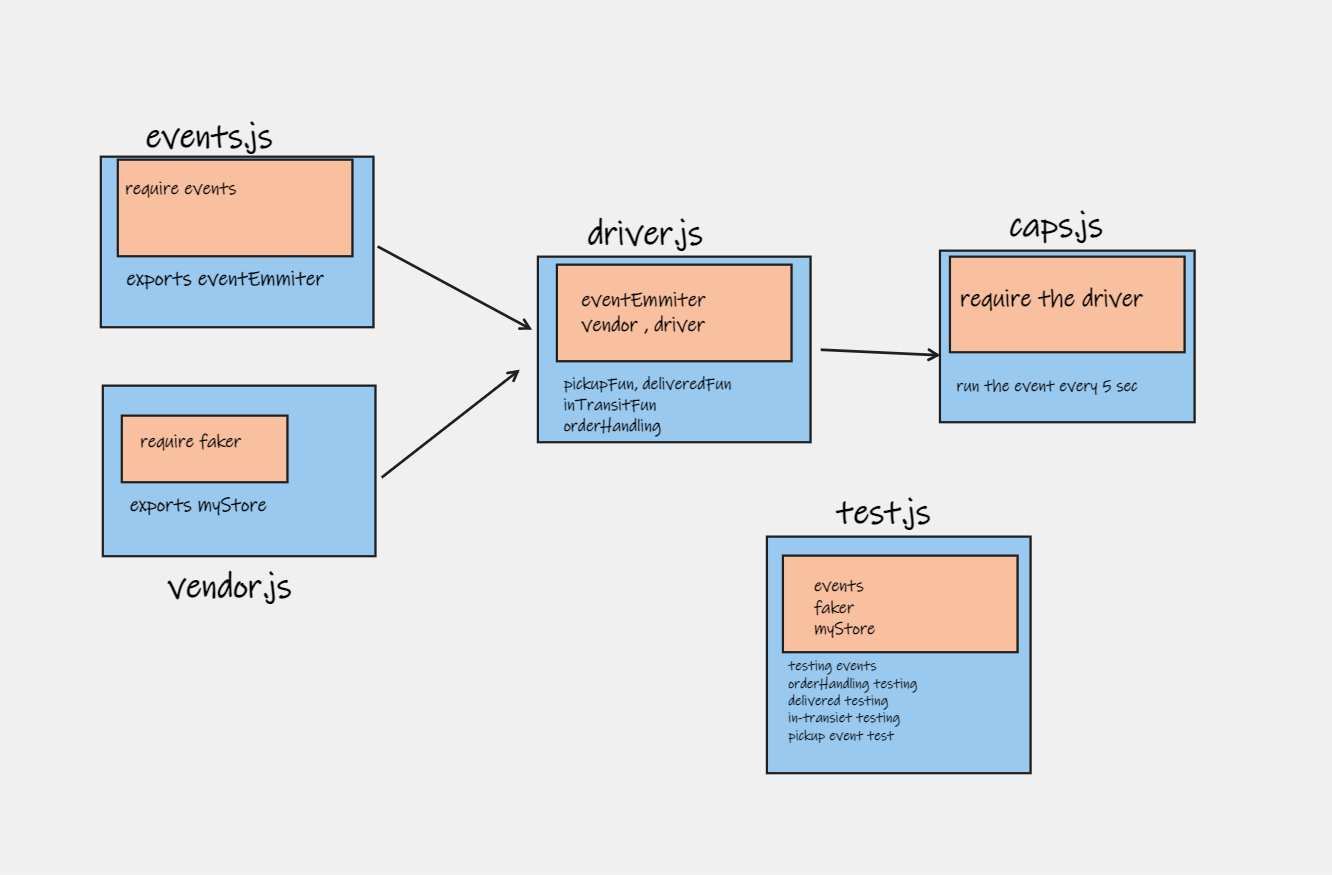
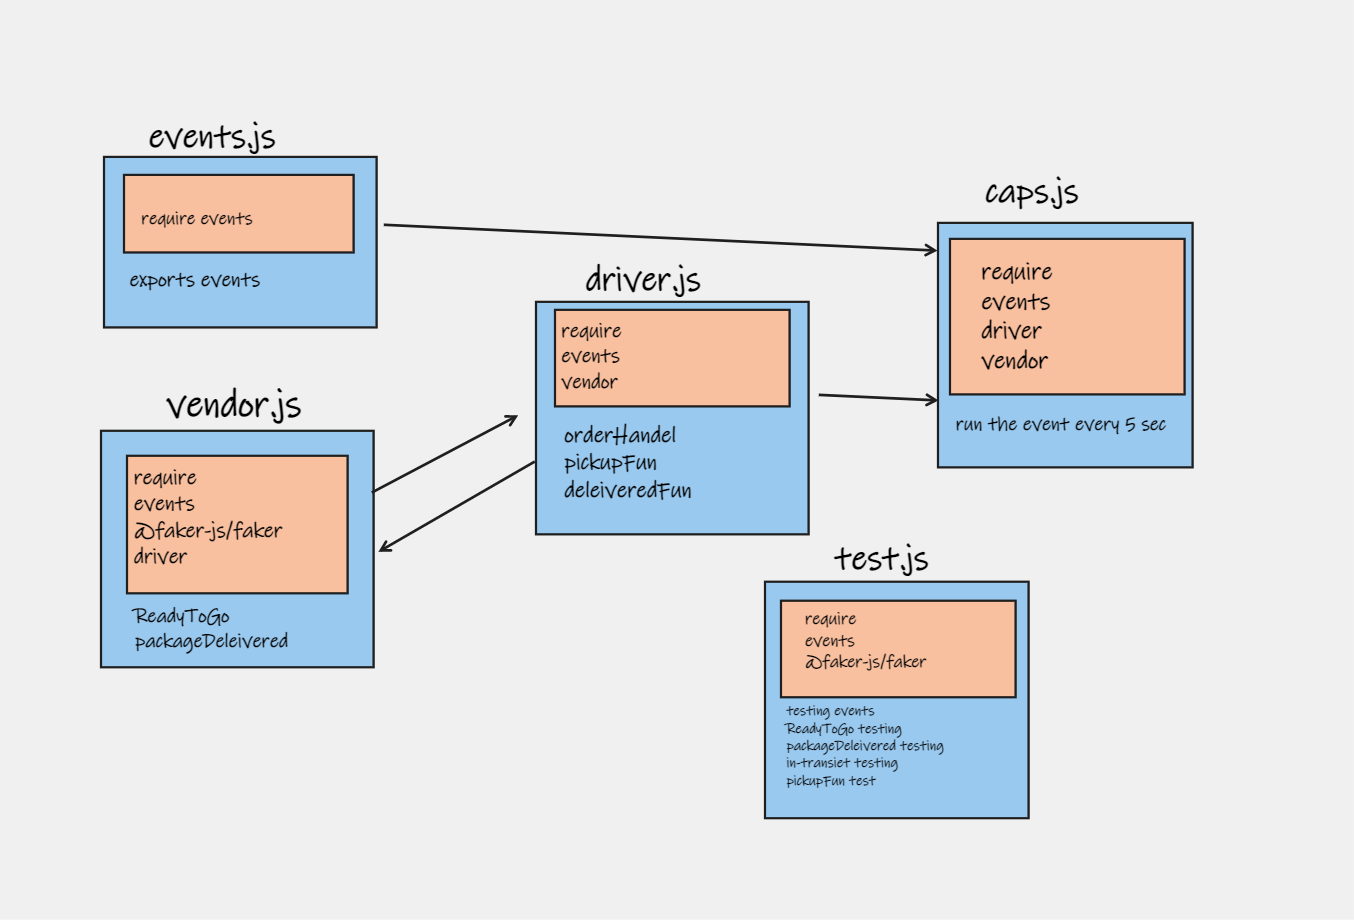
add another sol

Changed region(s): [[0.3386, 0.1851, 0.9234, 0.8949], [0.0616, 0.432, 0.3386, 0.7406], [0.0616, 0.1234, 0.3386, 0.4011]]

diff --git a/app/driver.js b/app/driver.js
@@ -1,43 +1,36 @@
-"use strict";
-
 const eventEmitter = require("../lib/events");
-const vendor = require("./vendor");
+require("./vendor");
 
-// Event Handler
-eventEmitter.on("pickup", pickupFun);
-eventEmitter.on("in-transit", inTransitFun);
-eventEmitter.on("delivered", deliveredFun);
+eventEmitter.on("pickedUp", pickupFun);
+eventEmitter.on("packageDeleiver", deleiveredFun);
+eventEmitter.on("orderDelever", orderHandel);
 
-function orderHandling() {
-  eventEmitter.emit("picking up orders", {
-    event: "pickup",
-    time: new Date().toString(),
-    payload: vendor,
-  });
+function orderHandel(payload) {
+  console.log(`DRIVER: picked up${payload.orderID}`);
+  setTimeout(() => {
+    eventEmitter.emit("pickedUp", payload);
+  }, 3000);
 }
 
 function pickupFun(payload) {
-  console.log("EVENT", payload);
-  console.log(`DRIVER : picked up ${payload.payload.orderID} `);
+  console.log(`EVENT: "in-transit"
+  time:${new Date().toISOString()},
+  payload: {
+    store: ${payload.store},
+    orderID: ${payload.orderID},
+    customer: ${payload.customer},
+    address: ${payload.address}
+  }
+  `);
+  console.log(`DRIVER: delivered up order ${payload.orderID}`);
   setTimeout(() => {
-    eventEmitter.emit("in-transit", payload), 1000;
-  });
+    eventEmitter.emit("packageDeleiver", payload);
+  }, 3000);
 }
 
-function inTransitFun(payload) {
-  payload.event = "in-transit";
-  payload.time = new Date().toString();
-  console.log("EVENT", payload);
+function deleiveredFun(payload) {
+  // console.log(`DRIVER: delivered order ${payload.orderID}`);
   setTimeout(() => {
-    eventEmitter.emit("Delivered", payload), 3000;
-  });
+    eventEmitter.emit("packageDeleivered", payload);
+  }, 100);
 }
-
-function deliveredFun(payload) {
-  payload.event = "delivered";
-  payload.time = new Date().toString();
-  console.log(`DRIVER : delivered up ${payload.payload.orderID}`);
-  console.log(`VENDOR : Thank you for delivering ${payload.payload.orderID}`);
-  console.log("EVENT", payload);
-}
-module.exports = { orderHandling };

diff --git a/__tests__/events.test.js b/__tests__/events.test.js
@@ -11,29 +11,33 @@ let myStore = {
 };
 
 describe("testing events", () => {
+  const myStore = "testing";
   let consoleSpy;
-  beforeAll(() => {
+  beforeEach(() => {
     consoleSpy = jest.spyOn(console, "log").mockImplementation();
   });
-
-  it("orderHandling testing", async () => {
-    events.emit("is ready to go ", myStore);
-    await consoleSpy();
-    expect(consoleSpy).toHaveBeenCalled();
+  afterAll(() => {
+    consoleSpy.mockRestore();
   });
 
-  it("pickup eventEmmiter test", async () => {
-    events.emit("pickup", myStore);
+  it("testing ReadyToGo", async () => {
+    events.emit("orderDelever ", myStore);
     await consoleSpy();
     expect(consoleSpy).toHaveBeenCalled();
   });
-  it("in-transit eventEmitter testing", async () => {
-    events.emit("in-transit", myStore);
+
+  it("packageDeleivered test", async () => {
+    events.emit("packageDeleivered", myStore);
     await consoleSpy();
     expect(consoleSpy).toHaveBeenCalled();
   });
-  it("delivered eventEmitter testing", async () => {
-    events.emit("delivered", myStore);
+  it("pickupFun testing", async () => {
+    events.emit("packageDeleiver", myStore);
+    await consoleSpy();
+    expect(consoleSpy).toHaveBeenCalled();
+  });
+  it("deleiveredFun testing", async () => {
+    events.emit("packageDeleivered", myStore);
     await consoleSpy();
     expect(consoleSpy).toHaveBeenCalled();
   });

diff --git a/app/vendor.js b/app/vendor.js
@@ -1,12 +1,41 @@
 "use strict";
 
+const eventEmitter = require("../lib/events");
 const { faker } = require("@faker-js/faker");
+require("./driver");
 
-let myStore = {
-  store: "My store",
-  orderID: faker.datatype.uuid(),
-  customer: faker.name.findName(),
-  address: `${faker.address.city()}, ${faker.address.stateAbbr()}`,
-};
+eventEmitter.on("packageDeleivered", packageDeleivered);
+eventEmitter.on("ReadyToGo", ReadyToGo);
 
-module.exports = myStore;
+function ReadyToGo() {
+  const payload = {
+    time: new Date().toISOString(),
+    store: "My Store",
+    orderID: faker.datatype.uuid(),
+    customer: `${faker.name.firstName()}`,
+    address: `${faker.address.city()}`,
+  };
+  console.log(`EVENT: "pickup"
+  time:${payload.time},
+  payload: {
+    store: ${payload.store},
+    orderID: ${payload.orderID},
+    customer: ${payload.customer},
+    address: ${payload.address}
+  }
+  `);
+  eventEmitter.emit("orderDelever", payload);
+}
+
+function packageDeleivered(payload) {
+  console.log(`VENDOR: Thank you for delivering ${payload.orderID}`);
+  console.log(`EVENT: "delivered"
+    time:${new Date().toISOString()},
+    payload: {
+      store: ${payload.store},
+      orderID: ${payload.orderID},
+      customer: ${payload.customer},
+      address: ${payload.address}
+    }
+    `);
+}

diff --git a/caps.js b/caps.js
@@ -1,9 +1,10 @@
 "use strict";
 
-require("./app/vendor");
 const eventEmitter = require("./lib/events");
-const orderHandling = require("./app/driver");
+
+require("./app/driver");
+require("./app/vendor");
 
 setInterval(() => {
-  eventEmitter.orderHandling;
+  eventEmitter.emit("ReadyToGo");
 }, 5000);

diff --git a/lib/events.js b/lib/events.js
@@ -1,5 +1,6 @@
 "use strict";
 
-const Events = require("events");
-const eventEmitter = new Events();
-module.exports = eventEmitter;
+const Event = require("events");
+const events = new Event();
+
+module.exports = events;

diff --git a/README.md b/README.md
@@ -5,6 +5,12 @@ This will be an event driven application that “distributes” the responsibili
 ## UML diagram
 ![UML](./assets/cap.png)
 
+## npm test
+![test](./assets/test.png)
+
+## the output
+![output](./assets/out.png)
+
 ## **here are the links for the server:**
 
 **1. The Actions link:**
